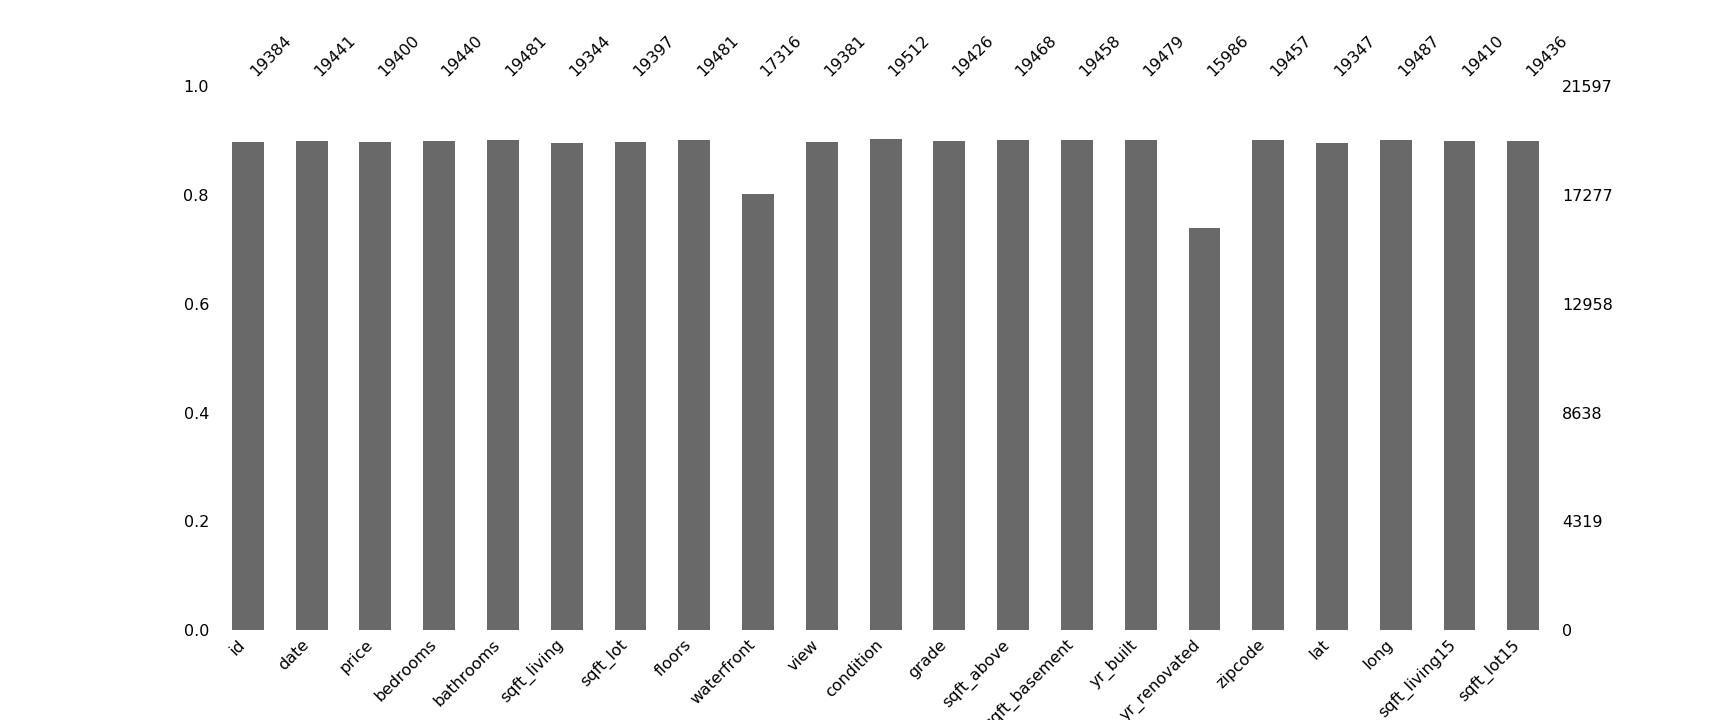
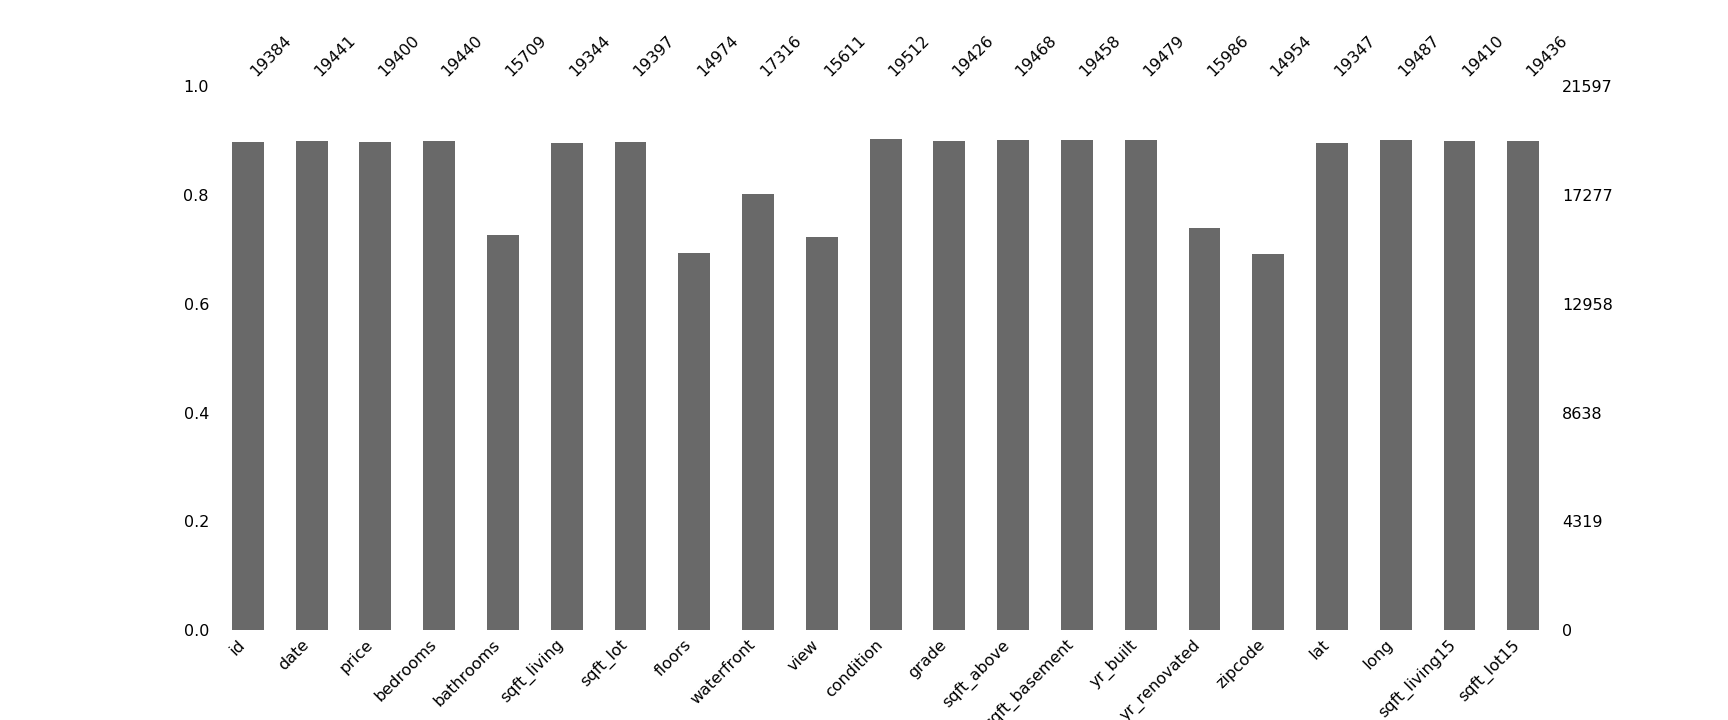
removed some more data for better visuals

diff --git a/_posts/.ipynb_checkpoints/2018-11-28-missingno-checkpoint.md b/_posts/.ipynb_checkpoints/2018-11-28-missingno-checkpoint.md
@@ -1,0 +1,44 @@
+---
+layout: post
+title: missingno
+---
+
+Visualizations, in my naive opinion, are the cornerstone to understanding what you are doing in data science. It is easy to quickly call something in your jupyter notebook and check you are handling the kind of the object you think you are. It gets a bit harder when it comes to visualizing your data. There are plenty of quick ways to see what the spread of your data, quantity, etc. A histogram does wonders. But what about the data you don’t have? Or you have some other piece of information that ties the data to the physical world (an address, lat/long, or even something more specific). There are a number of easy to implement libraries to help you see how your data set internal looks and mapped onto things.
+
+`missingno` is my best tool in my tool belt for finding about NaN values in a dataset. There are plently of great tools to explore your data. When starting out on a project, your missing NaN values could be an important factor in making decisions and there is where `missingno` shines. This library “works by converting tabular data matrices into boolean masks based on whether individual entries contain data (which evaluates to true) or left empty (which evaluates to false).” (Bilogur) This “nullity matrix” is what is leveraged against the underlying packages NumPy, pandas, SciPy, matplotlib, and seaborn (Bilogur).
+
+The first visualization is an easy one `msno.bar`. This returns a bar graph of the showing how much is missing from each column. This makes for comparing the missing data from different features easier while showing where there could be no data at all. You can quickly see in portion what data is missing and from where.
+
+<img of bar graph>
+
+`msno.matrix` is a highlight of this library. This shows a visualization in the missing data by row. This can easily highlight if a certain row is consistently missing values, making the case to drop entire rows much stronger. Another strong utility of the matrix is to see patterns in the missing values. You can see if there is consistency when one variable it is skipped, another one is as well. 
+
+<img of matrix>
+
+If there are patterns that you are unable to spot, due to either obscurity or some other reason, missingno can create a correlation heatmap. It will not display any variables that are always full or always empty. “Entries marked <1 or >-1 are have a correlation that is close to being exactingly negative or positive, but is still not quite perfectly so (Bilogur). This can point you towards some steps you can take to recreate the data or drop columns altogether. Take a look at their README for a good primer.
+
+<img of heatmap>
+
+Going forward with `missingno` there are other things in our data that may be good to know before we set out. Some patterns are hard to check, specifically when it comes to modeling geographic data. The next few visualizations rely on `geoplot` and `geopandas` libraries. If you are a unfamiliar with these libraries or want to brush up, check them out.
+
+Missingno can help plot your data as “a set of minimum-enclosure convex hulls”. A convex closure of a set X of points in the Euclidean plane or in a Euclidean space is the smallest convex set that contains X. For instance, when X is a bounded subset of the plane, the convex hull may be visualized as the shape enclosed by a rubber band stretched around X (Wiki)The following uses a sample of the NYPD Motor Vehicle Collisions Dataset dataset. When latitude and longitude is paired with another geographic subset of data, zip codes, `missinggo` maps the values. The color gradient makes it easy to see if there is a physical area that has more missing data than other locations.
+
+<geoplot>
+
+As you can see, with enough points you can reflect the geological area being mapped. Compare with the image of Manhattan below.
+
+![generic](/images/NPCC500year_floodProj_large.jpg)
+
+And while we aren’t all fortunate enough to have subsequent geographical information in our datasets, `missingno` can still compute a quadtree with the nullity distribution. ` msno.geoplot(collisions, x='LONGITUDE', y='LATITUDE')`
+
+<geoplot img>
+
+This will give us enough information to see if the NaN values are throughout our data or in specific regions. 
+So when starting out on your next data science project, make sur you have `missinggo` in your tool belt. It could just help you explain the unknown.
+
+ 
+Citations and references:
+
+https://en.wikipedia.org/wiki/Convex_hull
+
+Bilogur, (2018). Missingno: a missing data visualization suite. Journal of Open Source Software, 3(22), 547, https://doi.org/10.21105/joss.00547
